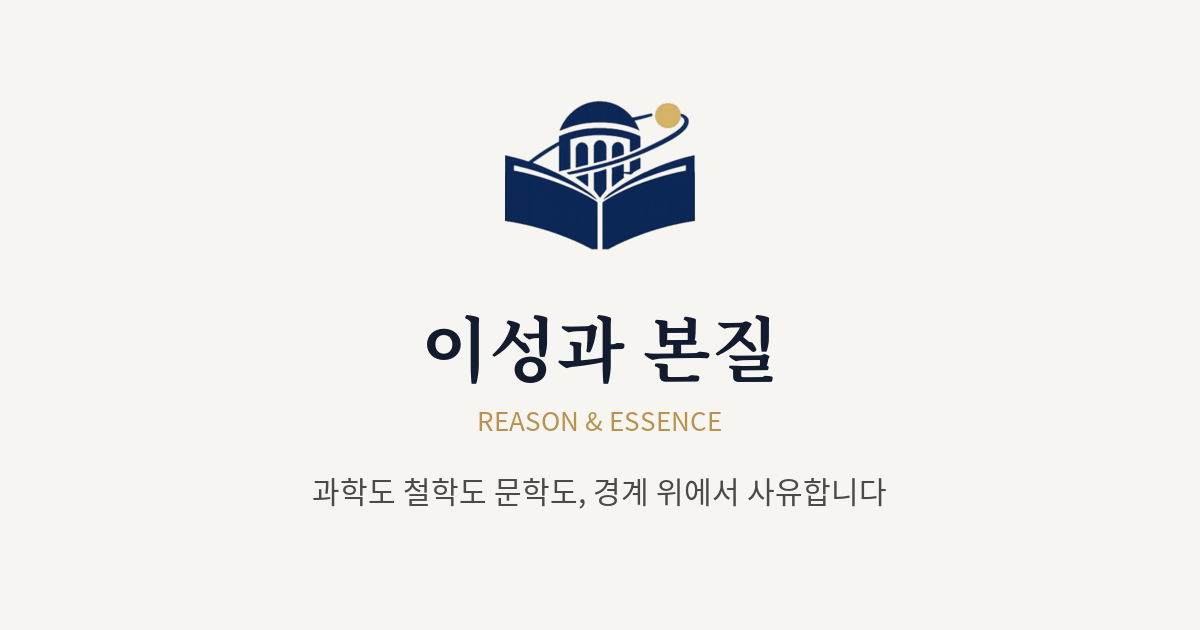
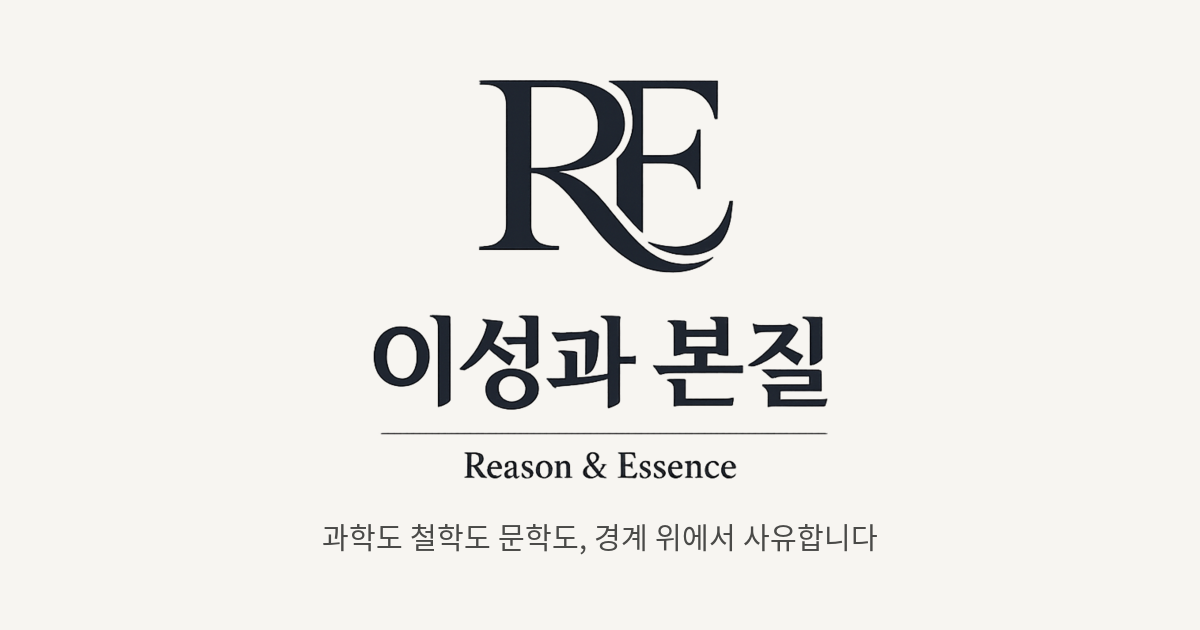
Add files via upload

Changed region(s): [[0.3083, 0.4825, 0.7092, 0.6937], [0.4008, 0.1206, 0.6167, 0.4524], [0.2467, 0.7238, 0.74, 0.8746]]

diff --git a/author.html b/author.html
@@ -32,11 +32,7 @@
 <header class="site-header">
   <div class="wrap">
     <a href="index.html" class="brand">
-      <img class="site-logo" alt="이성과 본질 로고">
-      <span class="brand-text">
-        <span class="kor">이성과 본질</span>
-        <span class="eng">Reason &amp; Essence</span>
-      </span>
+      <img class="site-logo" alt="이성과 본질 — Reason &amp; Essence">
     </a>
     <nav class="main-nav">
       <ul>

diff --git a/book.html b/book.html
@@ -32,11 +32,7 @@
 <header class="site-header">
   <div class="wrap">
     <a href="index.html" class="brand">
-      <img class="site-logo" alt="이성과 본질 로고">
-      <span class="brand-text">
-        <span class="kor">이성과 본질</span>
-        <span class="eng">Reason &amp; Essence</span>
-      </span>
+      <img class="site-logo" alt="이성과 본질 — Reason &amp; Essence">
     </a>
     <nav class="main-nav">
       <ul>

diff --git a/books.html b/books.html
@@ -32,11 +32,7 @@
 <header class="site-header">
   <div class="wrap">
     <a href="index.html" class="brand">
-      <img class="site-logo" alt="이성과 본질 로고">
-      <span class="brand-text">
-        <span class="kor">이성과 본질</span>
-        <span class="eng">Reason &amp; Essence</span>
-      </span>
+      <img class="site-logo" alt="이성과 본질 — Reason &amp; Essence">
     </a>
     <nav class="main-nav">
       <ul>

diff --git a/contact.html b/contact.html
@@ -32,11 +32,7 @@
 <header class="site-header">
   <div class="wrap">
     <a href="index.html" class="brand">
-      <img class="site-logo" alt="이성과 본질 로고">
-      <span class="brand-text">
-        <span class="kor">이성과 본질</span>
-        <span class="eng">Reason &amp; Essence</span>
-      </span>
+      <img class="site-logo" alt="이성과 본질 — Reason &amp; Essence">
     </a>
     <nav class="main-nav">
       <ul>

diff --git a/index.html b/index.html
@@ -32,11 +32,7 @@
 <header class="site-header">
   <div class="wrap">
     <a href="index.html" class="brand">
-      <img class="site-logo" alt="이성과 본질 로고">
-      <span class="brand-text">
-        <span class="kor">이성과 본질</span>
-        <span class="eng">Reason &amp; Essence</span>
-      </span>
+      <img class="site-logo" alt="이성과 본질 — Reason &amp; Essence">
     </a>
     <nav class="main-nav">
       <ul>

diff --git a/press.html b/press.html
@@ -32,11 +32,7 @@
 <header class="site-header">
   <div class="wrap">
     <a href="index.html" class="brand">
-      <img class="site-logo" alt="이성과 본질 로고">
-      <span class="brand-text">
-        <span class="kor">이성과 본질</span>
-        <span class="eng">Reason &amp; Essence</span>
-      </span>
+      <img class="site-logo" alt="이성과 본질 — Reason &amp; Essence">
     </a>
     <nav class="main-nav">
       <ul>
